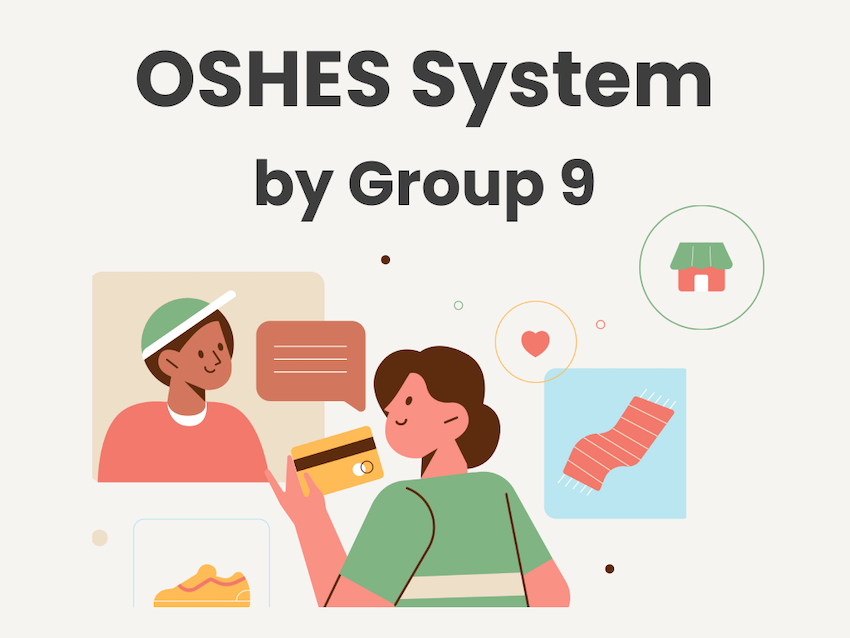
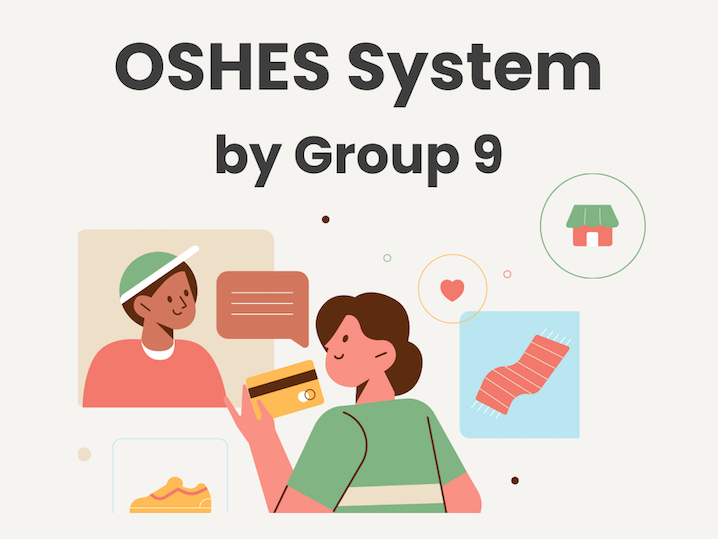
Fixed Admin Change Password, UI of Welcome page and buttons

diff --git a/tk_screens/adminPortal.py b/tk_screens/adminPortal.py
@@ -38,7 +38,8 @@ class AdminPortal(tk.Frame):
         # Reset Button
         self.resetButton = ttk.Button(self, text="Reset Database",
                              command=self.resetDB)
-        self.resetButton.grid(column='4', padx='5', pady='5', row='1')
+        self.resetButton.grid(row=1, column=6,padx=10, pady=10)
+        # self.resetButton.grid(column='6', padx='5', pady='5', row='1')
         # self.resetButton.bind('<1>', self.resetDB, add='')
 
         createAdminButton = ttk.Button(self, text="Create New Admin",
@@ -358,7 +359,7 @@ class AdminItemSearch(tk.Frame):
         self.itemID = tk.StringVar()
         self['background']='#F6F4F1'
 
-        button1 = ttk.Button(self, text="Back to Admin Home",
+        button1 = ttk.Button(self, text="Back to Home",
                              command=lambda: controller.show_frame(AdminPortal))
         button1.grid(row=0, column=1, padx=5, pady=5)
 
@@ -389,7 +390,7 @@ class AdminItemSearch(tk.Frame):
         
         res = mongo.findItemByID(self.itemID.get())
         for col in self.cols:
-            self.tree.column(col, anchor="center", width=150)
+            self.tree.column(col, anchor="center", width=80)
             self.tree.heading(col, text=col)
         for r in  res:
             result = self.mongoToTree(r)
@@ -426,7 +427,7 @@ class AdminProductSearch(tk.Frame):
         
         self['background']='#F6F4F1'
 
-        button1 = ttk.Button(self, text="Back to Admin Home",
+        button1 = ttk.Button(self, text="Back to Home",
                              command=lambda: controller.show_frame(AdminPortal))
         button1.grid(row=0, column=1, padx=5, pady=5)
 
@@ -516,7 +517,7 @@ class AdminAdvancedSearch(tk.Frame):
 
         self['background']='#F6F4F1'
 
-        button1 = ttk.Button(self, text="Back to Admin Home",
+        button1 = ttk.Button(self, text="Back to Home",
                              command=lambda: controller.show_frame(AdminPortal))
         button1.grid(row=0, column=1, padx=5, pady=5)
 

diff --git a/tk_screens/authScreens.py b/tk_screens/authScreens.py
@@ -27,7 +27,7 @@ class StartPage(tk.Frame):
         self.img = ImageTk.PhotoImage(Image.open("images/main_final.png").convert("RGB"))
         # self.img = tk.PhotoImage(file = "images/main_1.jpeg")
         self.label = ttk.Label(self, image=self.img)
-        self.label.grid(row=0, column=0, padx=100, pady=20)
+        self.label.grid(row=0, column=2, padx=250, pady=20)
         
         # putting the grid in its place by using
         # grid
@@ -39,7 +39,7 @@ class StartPage(tk.Frame):
 
         # putting the button in its place by
         # using grid
-        button1.grid(row=1, column=0, padx=5, pady=5)
+        button1.grid(row=1, column=2, padx=5, pady=5)
         
         # def button_function():
         #     print("Button pressed")
@@ -53,7 +53,7 @@ class StartPage(tk.Frame):
 
         # putting the button in its place by
         # using grid
-        button2.grid(row=2, column=0, padx=5, pady=5)
+        button2.grid(row=2, column=2, padx=5, pady=5)
 
 
         # Dropdown menu options
@@ -61,7 +61,7 @@ class StartPage(tk.Frame):
 
         dropdownlist = ttk.OptionMenu(self, self.domain, options[0], *options)
         
-        dropdownlist.grid(row=3, column=0, padx=5, pady=5)
+        dropdownlist.grid(row=3, column=2, padx=5, pady=5)
 
         # table = Table(parent= parent,columns=("FName", "LName", "Roll No"))
         # table.insertRow(('Amit', 'Kumar', '17701'))
@@ -257,7 +257,7 @@ class RegisterPage(tk.Frame):
 
         # button to show frame 3 with text
         # layout3
-        button2 = ttk.Button(self, text="Back to Home",
+        button2 = ttk.Button(self, text="Back to Welcome Page",
                              command=lambda: controller.show_frame(StartPage))
 
         # putting the button in its place by

diff --git a/tk_screens/changePasswordWindow.py b/tk_screens/changePasswordWindow.py
@@ -41,14 +41,17 @@ class ChangePasswordWindow(Toplevel):
         domain = self.master.getDomain()
         if domain == "Customer":
             return self.db.getCustomerLogin(userID, self.oldPassword.get())
-        elif domain == "Admin":
+        elif domain == "Administrator":
             return self.db.getAdminLogin(userID, self.oldPassword.get())
         else:
+            print("userID" + userID)
+            print("domain" + domain)
             raise Exception("Check User type in changePasswordwindow.py")
 
     def handleChangePassword(self):
         if self.checkAuthState() == "User doesn't exist" or self.checkAuthState() =="Incorrect Password":
-            print("Auth Error! Please check password"+self.checkAuthState()) # TODO: Change to popup or warning
+            messagebox.showinfo(title="Password Change Failed", message= "Auth Error! Please check password " + self.checkAuthState())
+            # print("Auth Error! Please check password"+self.checkAuthState()) # TODO: Change to popup or warning
         else:
             print("Password Change Approved:", self.checkAuthState())
             self.db.changePassword(self.newPassword.get(), self.master.getUserID(), self.master.getDomain())

diff --git a/gui.py b/gui.py
@@ -35,7 +35,7 @@ class tkinterApp(tk.Tk):
         container.grid_rowconfigure(0, weight=1)
         container.grid_columnconfigure(0, weight=1)
         self.geometry('1500x800')
-        self.grid_propagate(0)
+        # self.grid_propagate(0)
         self.title("OSHES Group 9")
 
         # initializing frames to an empty array
